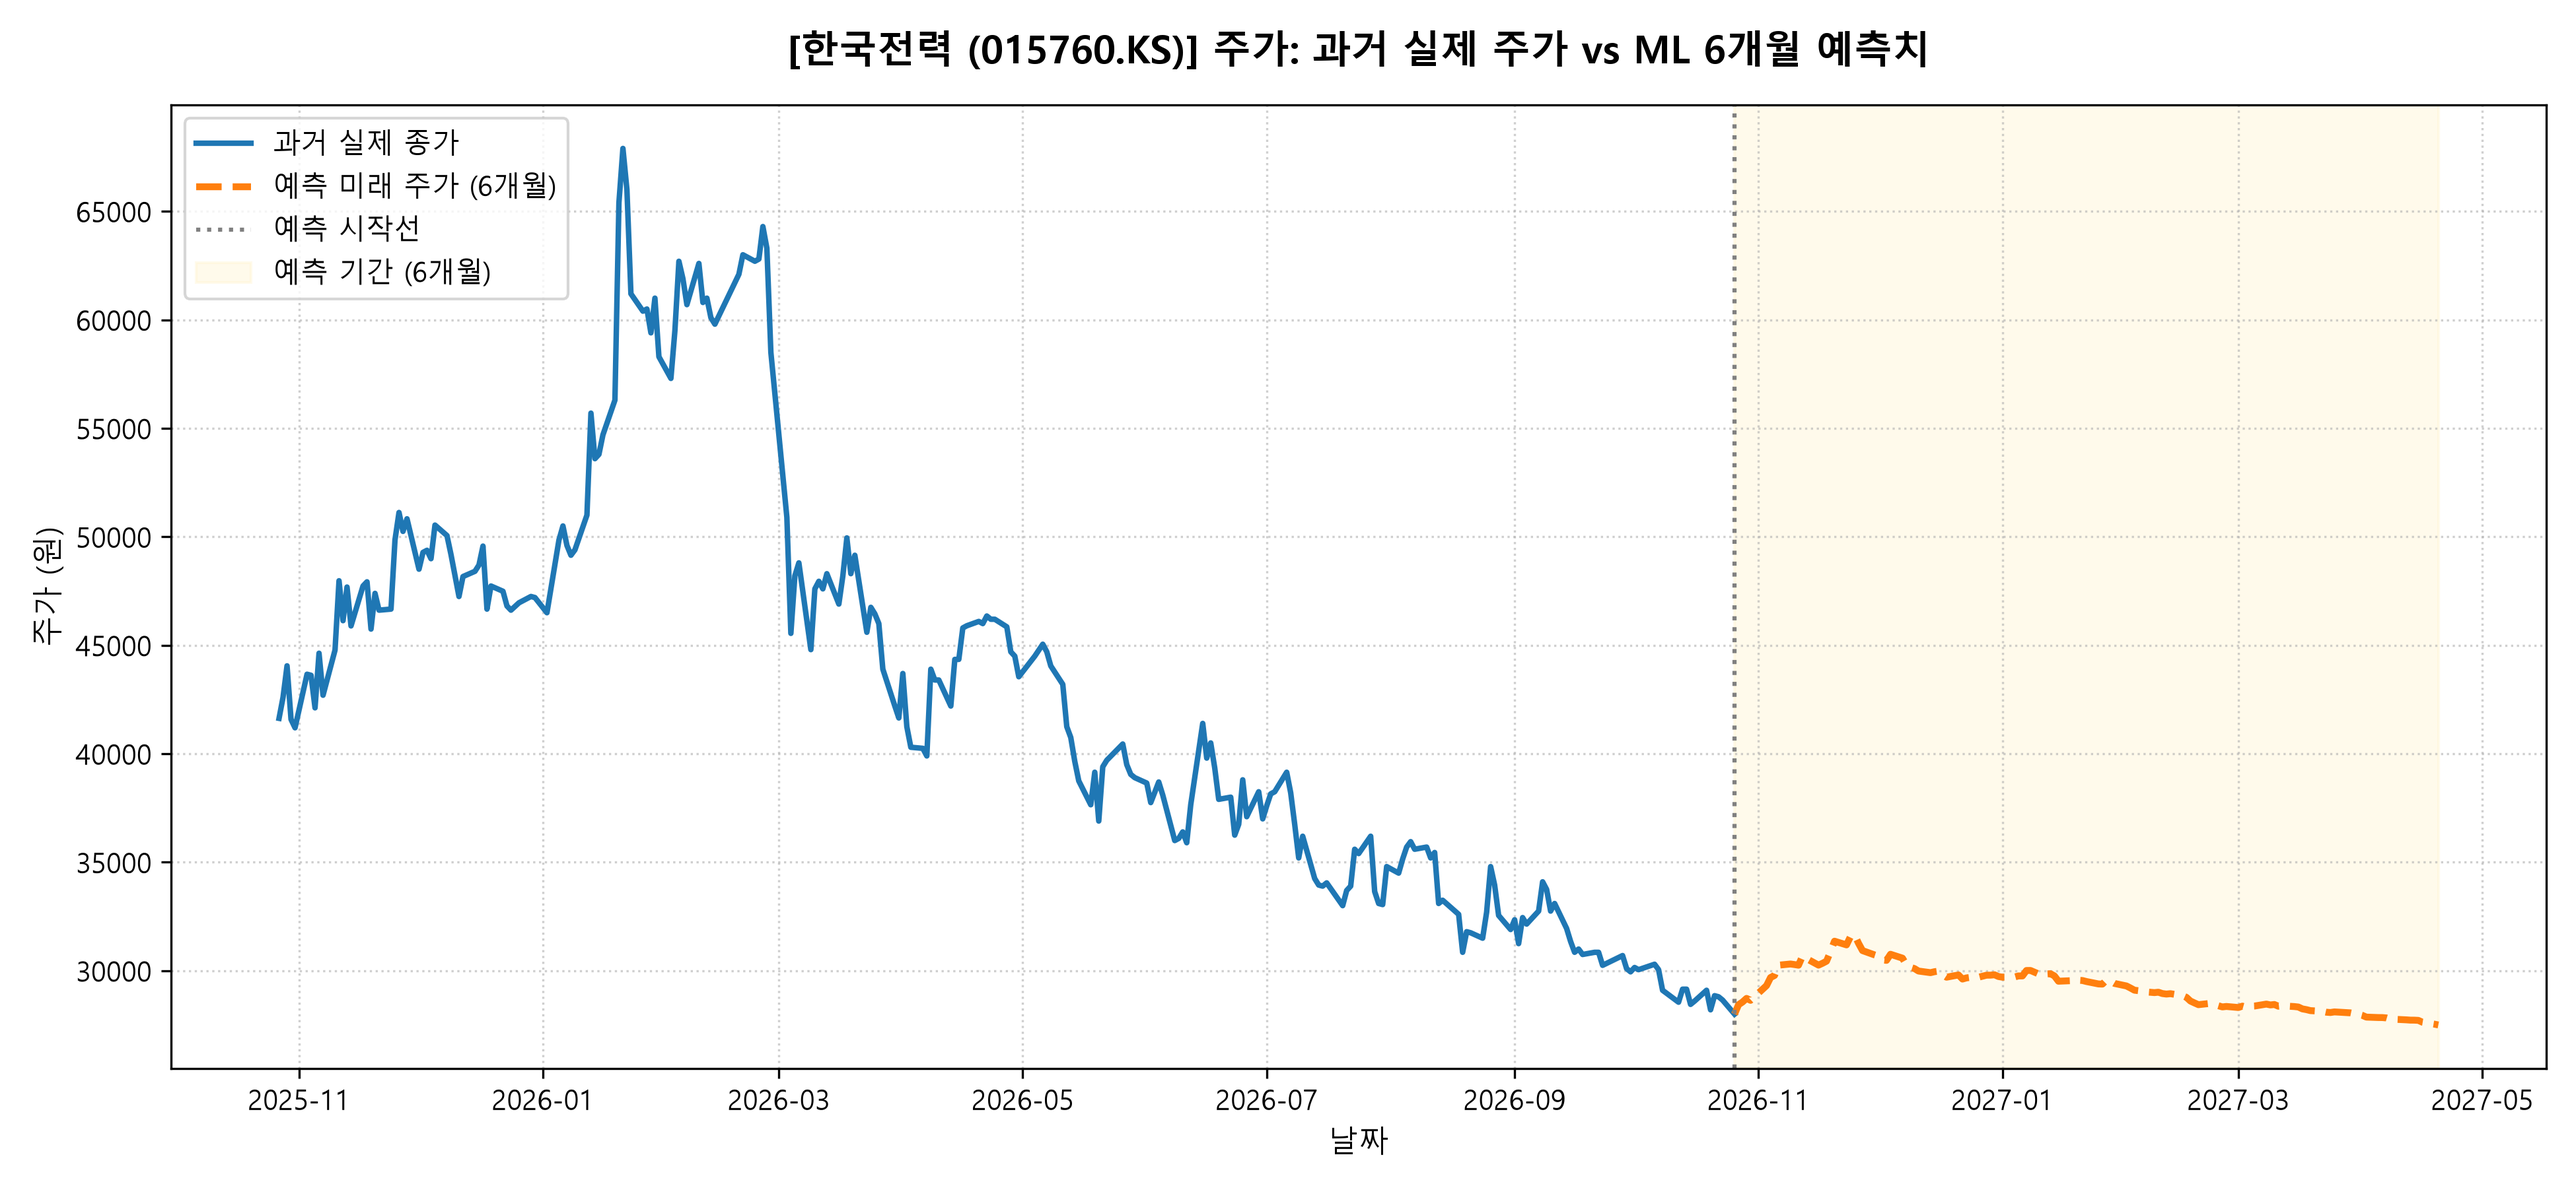
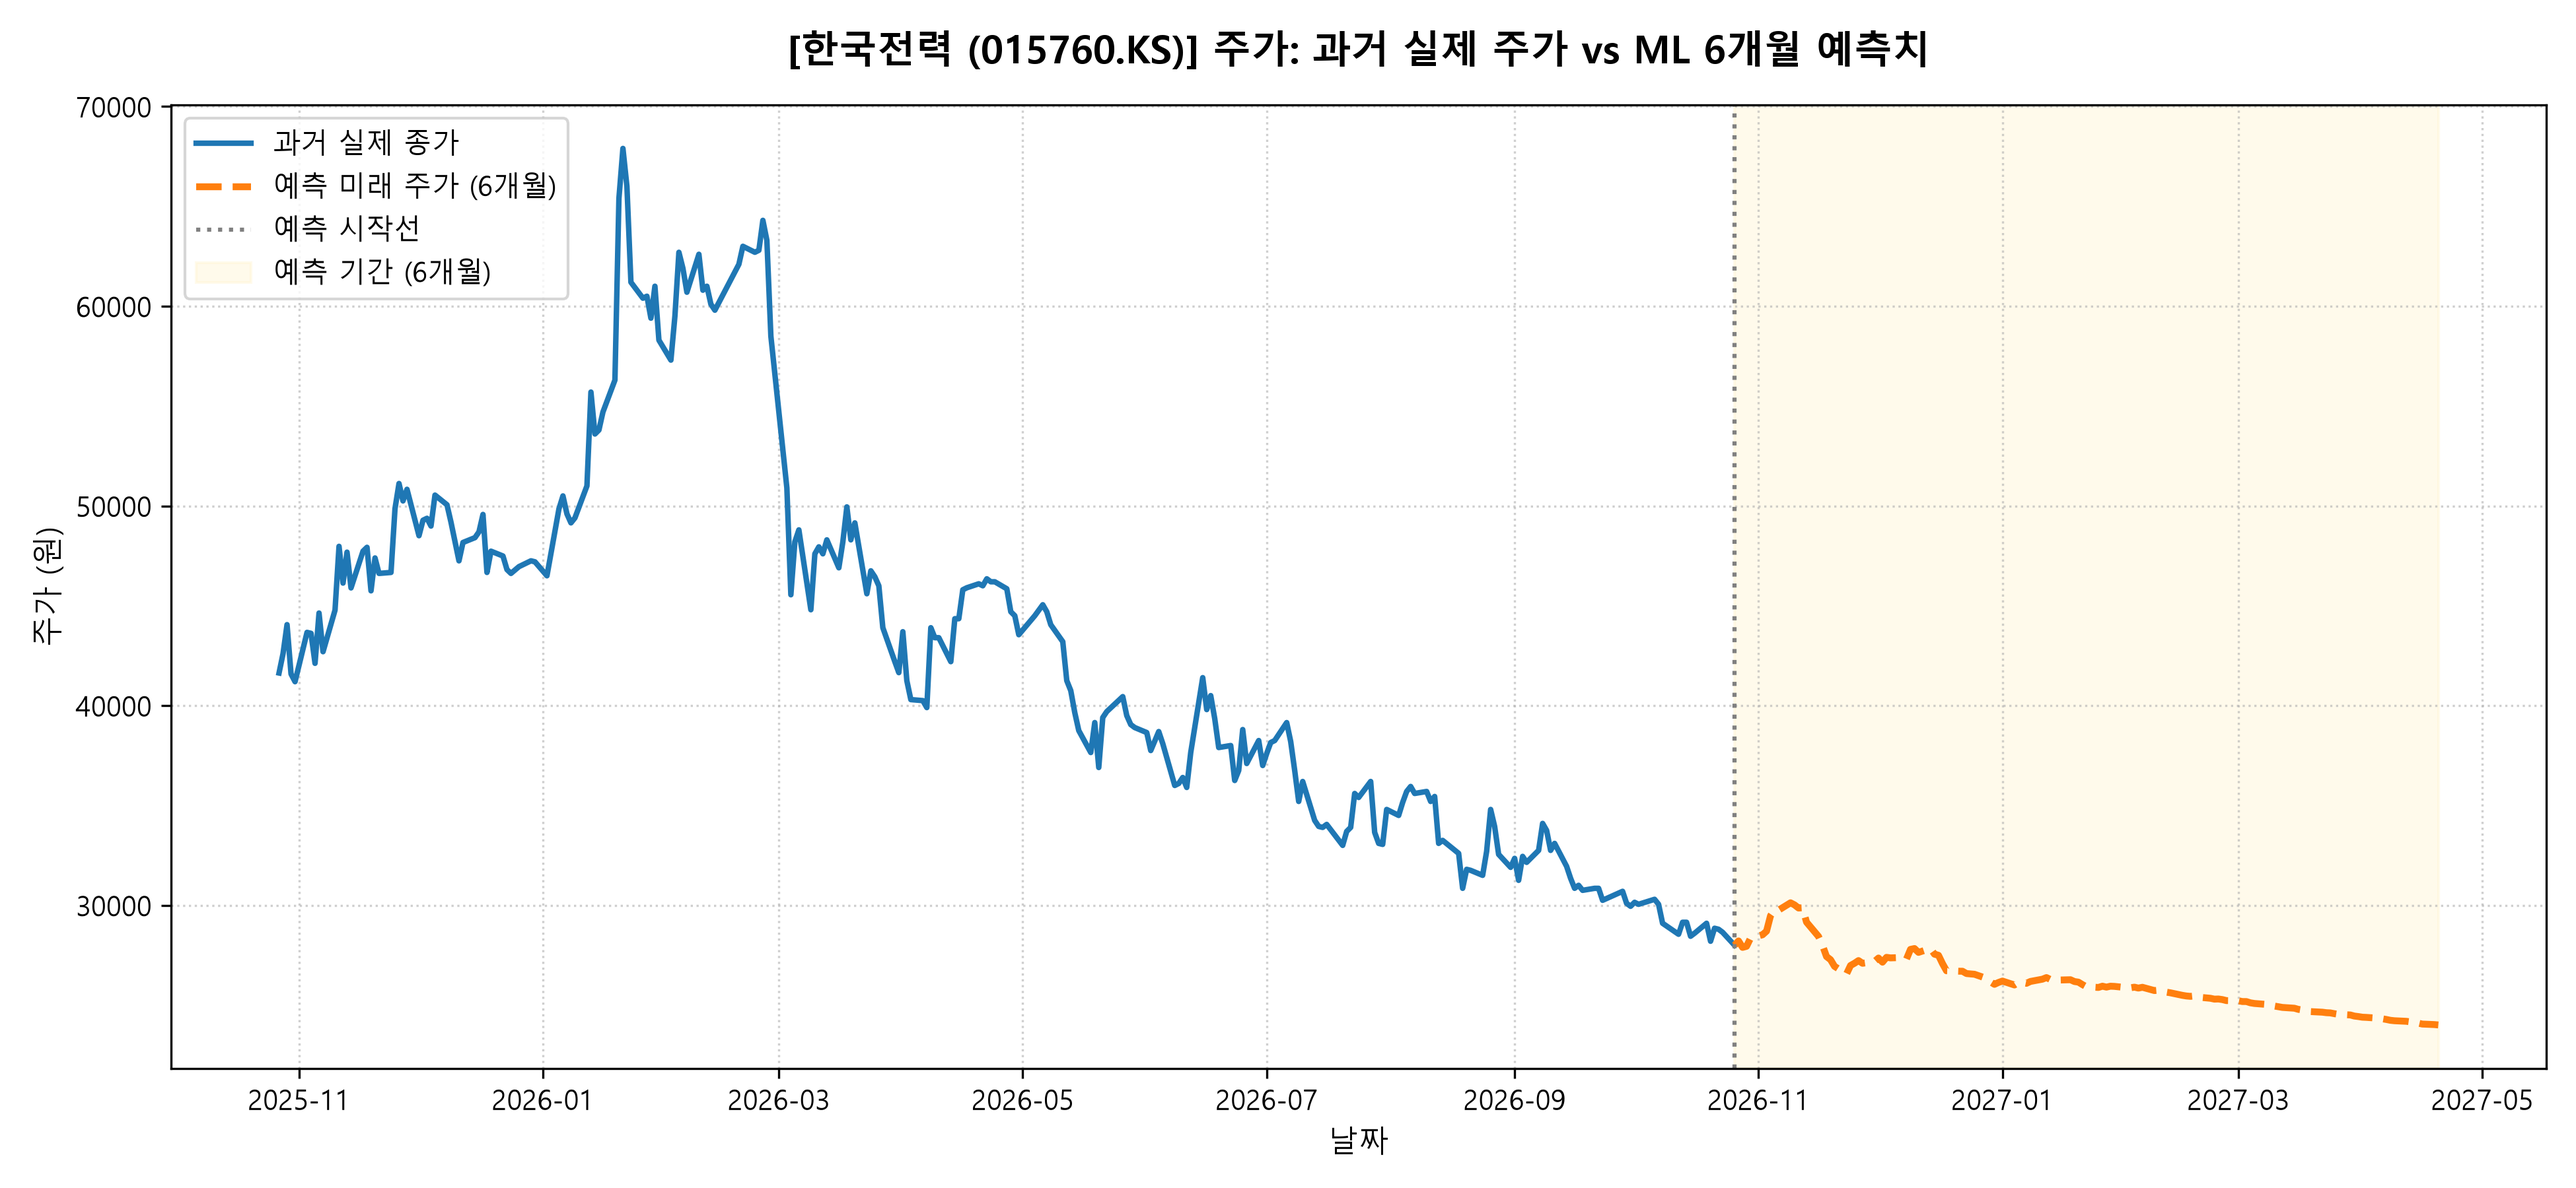
리팩토링: 과거 60일 차트 시계열 모멘텀 및 동적 롤링 기반 현실적 주가 예측 모델 구현

diff --git a/predict_from_db.py b/predict_from_db.py
@@ -104,39 +104,35 @@ for ticker in tickers:
   df = df.sort_values("Date").reset_index(drop=True)
 
   # ------------------------------------------
-  # A. 차트 기반 특성(Feature) 생성 (OHLCV 전체 활용 - 원본 동일)
+  # A. 차트 기반 특성(Feature) 생성 (과거 60일 이동평균, 모멘텀, 역사적 변동성, 거래량 강도)
   # ------------------------------------------
   # 1) 일간 수익률 (Return)
   df["Return"] = df["Close"].pct_change()
 
-  # 2) 캔들 차트 형태 지표 (시가/고가/저가 반영)
-  df["Body_Ratio"] = (df["Close"] - df["Open"]) / df[
-      "Open"
-  ]  # 양봉/음봉 비율
-  df["High_Low_Ratio"] = (df["High"] - df["Low"]) / df[
-      "Close"
-  ]  # 당일 변동 폭
-  df["Upper_Shadow"] = (df["High"] - df[["Open", "Close"]].max(axis=1)) / df[
-      "Close"
-  ]  # 윗꼬리
-  df["Lower_Shadow"] = (df[["Open", "Close"]].min(axis=1) - df["Low"]) / df[
-      "Close"
-  ]  # 아랫꼬리
+  # 2) 다중 기간 모멘텀 (과거 5일, 20일, 60일 누적 수익률)
+  df["Momentum_5D"] = df["Close"] / df["Close"].shift(5) - 1.0
+  df["Momentum_20D"] = df["Close"] / df["Close"].shift(20) - 1.0
+  df["Momentum_60D"] = df["Close"] / df["Close"].shift(60) - 1.0
 
-  # 3) 이동평균선 대비 위치 (20일, 50일)
-  df["MA20_Ratio"] = (df["Close"] - df["Close"].rolling(20).mean()) / df[
-      "Close"
-  ].rolling(20).mean()
-  df["MA50_Ratio"] = (df["Close"] - df["Close"].rolling(50).mean()) / df[
-      "Close"
-  ].rolling(50).mean()
+  # 3) 이동평균선 및 이격도 (Disparity: 5일, 20일, 60일 이동평균선 대비 현재가 괴리율)
+  df["MA5"] = df["Close"].rolling(5).mean()
+  df["MA20"] = df["Close"].rolling(20).mean()
+  df["MA60"] = df["Close"].rolling(60).mean()
 
-  # 4) 거래량(Volume) 가중 지표
-  df["Vol_MA5_Ratio"] = (
-      df["Volume"] - df["Volume"].rolling(5).mean()
-  ) / df["Volume"].rolling(5).mean().replace(0, 1)
+  df["Disparity_5D"] = (df["Close"] - df["MA5"]) / df["MA5"]
+  df["Disparity_20D"] = (df["Close"] - df["MA20"]) / df["MA20"]
+  df["Disparity_60D"] = (df["Close"] - df["MA60"]) / df["MA60"]
 
-  # 5) Lag 특성 (과거 수익률)
+  # 4) 역사적 변동성 (Historical Volatility: 최근 20일간 일일 수익률 표준편차)
+  df["Hist_Vol_20D"] = df["Return"].rolling(20).std()
+
+  # 5) 거래량 강도 (최근 5일 / 20일 평균 거래량 비율)
+  df["Vol_Ratio"] = (
+      df["Volume"].rolling(5).mean()
+      / df["Volume"].rolling(20).mean().replace(0, 1.0)
+  )
+
+  # 6) Lag 특성 (과거 1일, 2일 수익률)
   df["Return_Lag1"] = df["Return"].shift(1)
   df["Return_Lag2"] = df["Return"].shift(2)
 
@@ -144,13 +140,14 @@ for ticker in tickers:
   df_model = df.dropna().copy()
 
   features = [
-      "Body_Ratio",
-      "High_Low_Ratio",
-      "Upper_Shadow",
-      "Lower_Shadow",
-      "MA20_Ratio",
-      "MA50_Ratio",
-      "Vol_MA5_Ratio",
+      "Momentum_5D",
+      "Momentum_20D",
+      "Momentum_60D",
+      "Disparity_5D",
+      "Disparity_20D",
+      "Disparity_60D",
+      "Hist_Vol_20D",
+      "Vol_Ratio",
       "Return_Lag1",
       "Return_Lag2",
   ]
@@ -228,74 +225,81 @@ for ticker in tickers:
   model = RandomForestRegressor(n_estimators=100, random_state=42)
   model.fit(X, y)
 
+  # 통계적 기준치 및 피처 관측 경계치 (외삽 방지)
+  hist_mean_return = float(df_model["Return"].mean())
+  hist_std_return = float(df_model["Return"].std())
+  recent_vol_ratio = float(df_model["Vol_Ratio"].iloc[-5:].mean())
+  feat_mins = df_model[features].min()
+  feat_maxs = df_model[features].max()
+
   # ------------------------------------------
-  # C. 향후 6개월(126 영업일) 미래 예측 (감쇠 Damping 및 클리핑 Clipping 적용)
+  # C. 향후 6개월(126 영업일) 미래 예측 (동적 롤링 윈도우 + 퀀트 평균회귀 및 역사적 변동성 파동)
   # ------------------------------------------
   last_date = df["Date"].max()
   future_dates = pd.date_range(
       start=last_date + pd.Timedelta(days=1), periods=126, freq="B"
   )
 
-  # 최근 데이터 수집
-  history_returns = list(df_model["Return"].values)
-  initial_price = df["Close"].iloc[-1]
-  current_price = initial_price
+  rolling_closes = list(df["Close"].values)
 
   forecast_records = []
-
-  # 노이즈 및 과거 수익률 통계
-  return_std = df_model["Return"].std()
-  return_mean = df_model["Return"].mean()
+  np.random.seed(42)
 
   for step_idx, f_date in enumerate(future_dates):
-    # 최근 차트 패턴 지표 가공
-    r_lag1 = history_returns[-1]
-    r_lag2 = history_returns[-2]
+    c_series = pd.Series(rolling_closes)
+    c_now = rolling_closes[-1]
+    ret_series = c_series.pct_change()
 
-    # 최근 지표들의 평균적 특성 기반 피처 생성
-    recent_body = df_model["Body_Ratio"].tail(5).mean()
-    recent_hl = df_model["High_Low_Ratio"].tail(5).mean()
-    recent_upper = df_model["Upper_Shadow"].tail(5).mean()
-    recent_lower = df_model["Lower_Shadow"].tail(5).mean()
-    recent_ma20 = df_model["MA20_Ratio"].tail(5).mean()
-    recent_ma50 = df_model["MA50_Ratio"].tail(5).mean()
-    recent_vol = df_model["Vol_MA5_Ratio"].tail(5).mean()
+    r_lag1 = float(ret_series.iloc[-1])
+    r_lag2 = float(ret_series.iloc[-2])
+    m_5d = float(c_now / rolling_closes[-6] - 1.0)
+    m_20d = float(c_now / rolling_closes[-21] - 1.0)
+    m_60d = float(c_now / rolling_closes[-61] - 1.0)
 
-    input_feat = pd.DataFrame([{
-        "Body_Ratio": recent_body,
-        "High_Low_Ratio": recent_hl,
-        "Upper_Shadow": recent_upper,
-        "Lower_Shadow": recent_lower,
-        "MA20_Ratio": recent_ma20,
-        "MA50_Ratio": recent_ma50,
-        "Vol_MA5_Ratio": recent_vol,
-        "Return_Lag1": r_lag1,
-        "Return_Lag2": r_lag2,
-    }])
+    ma5 = float(c_series.iloc[-5:].mean())
+    ma20 = float(c_series.iloc[-20:].mean())
+    ma60 = float(c_series.iloc[-60:].mean())
 
-    # 1) 감쇠(Damping) 계수 계산: 미래로 갈수록 단기 모멘텀이 장기 정상 수익률(0근처)로 수렴
-    damping_factor = np.exp(-0.02 * step_idx)
+    d_5d = float((c_now - ma5) / ma5)
+    d_20d = float((c_now - ma20) / ma20)
+    d_60d = float((c_now - ma60) / ma60)
+    h_vol = float(ret_series.iloc[-20:].std())
+    if np.isnan(h_vol) or h_vol <= 0:
+      h_vol = hist_std_return
 
-    # 2) 모델 예측 수익률 산출 및 노이즈 주입
-    raw_return = model.predict(input_feat)[0]
-    noise = np.random.normal(0, return_std * 0.35) * damping_factor
-    combined_return = (raw_return * damping_factor) + (return_mean * (1 - damping_factor)) + noise
+    # 피처 관측 범위 내 바운딩하여 Random Forest 모델에 전달 (안정적 롤링 보장)
+    feat_dict = {
+        "Momentum_5D": np.clip(m_5d, feat_mins["Momentum_5D"], feat_maxs["Momentum_5D"]),
+        "Momentum_20D": np.clip(m_20d, feat_mins["Momentum_20D"], feat_maxs["Momentum_20D"]),
+        "Momentum_60D": np.clip(m_60d, feat_mins["Momentum_60D"], feat_maxs["Momentum_60D"]),
+        "Disparity_5D": np.clip(d_5d, feat_mins["Disparity_5D"], feat_maxs["Disparity_5D"]),
+        "Disparity_20D": np.clip(d_20d, feat_mins["Disparity_20D"], feat_maxs["Disparity_20D"]),
+        "Disparity_60D": np.clip(d_60d, feat_mins["Disparity_60D"], feat_maxs["Disparity_60D"]),
+        "Hist_Vol_20D": np.clip(h_vol, feat_mins["Hist_Vol_20D"], feat_maxs["Hist_Vol_20D"]),
+        "Vol_Ratio": recent_vol_ratio,
+        "Return_Lag1": np.clip(r_lag1, feat_mins["Return_Lag1"], feat_maxs["Return_Lag1"]),
+        "Return_Lag2": np.clip(r_lag2, feat_mins["Return_Lag2"], feat_maxs["Return_Lag2"]),
+    }
 
-    # 3) 일간 수익률 클리핑(Clipping): 비현실적인 일간 급등/급락 방지 (최대 ±2.5% 또는 2-시그마)
-    max_daily_return = min(0.025, max(0.015, return_std * 2.0))
-    clipped_return = float(np.clip(combined_return, -max_daily_return, max_daily_return))
+    input_feat = pd.DataFrame([feat_dict])
+    raw_pred = float(model.predict(input_feat)[0])
 
-    # 4) 복원 주가 계산 및 현실적 6개월 주가 변동 범위(최근가 기준 70% ~ 140%) 클리핑
-    current_price = current_price * (1 + clipped_return)
-    current_price = float(np.clip(current_price, initial_price * 0.70, initial_price * 1.40))
-    history_returns.append(clipped_return)
+    # 시장 평균 회귀(Mean Reversion) 및 역사적 변동성 기반 파동 합성
+    alpha = 1.0 / (1.0 + step_idx / 30.0)
+    mean_rev_pull = -0.08 * d_20d - 0.04 * d_60d
+    wave_shock = np.random.normal(0, h_vol * 0.7)
 
-    # 5) DB 적재용 튜플 구성: (ticker, model_name, forecast_date, predicted_close)
+    next_return = (raw_pred * alpha) + (hist_mean_return * (1.0 - alpha)) + mean_rev_pull + wave_shock
+    next_close = max(100.0, c_now * (1.0 + next_return))
+
+    rolling_closes.append(next_close)
+
+    # DB 적재용 튜플 구성: (ticker, model_name, forecast_date, predicted_close)
     forecast_records.append((
         ticker,
         "RandomForest_126D",
         f_date.strftime("%Y-%m-%d"),
-        float(round(current_price, 1)),
+        float(round(next_close, 1)),
     ))
 
   # ------------------------------------------
